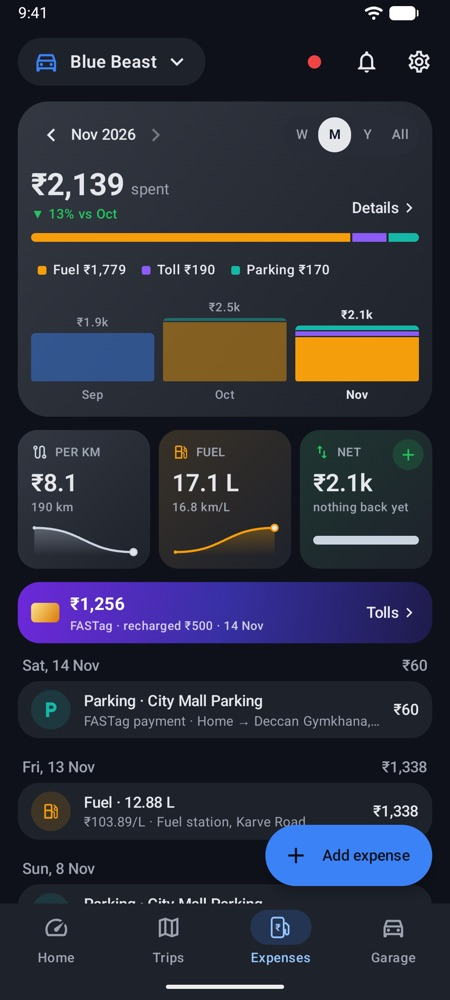
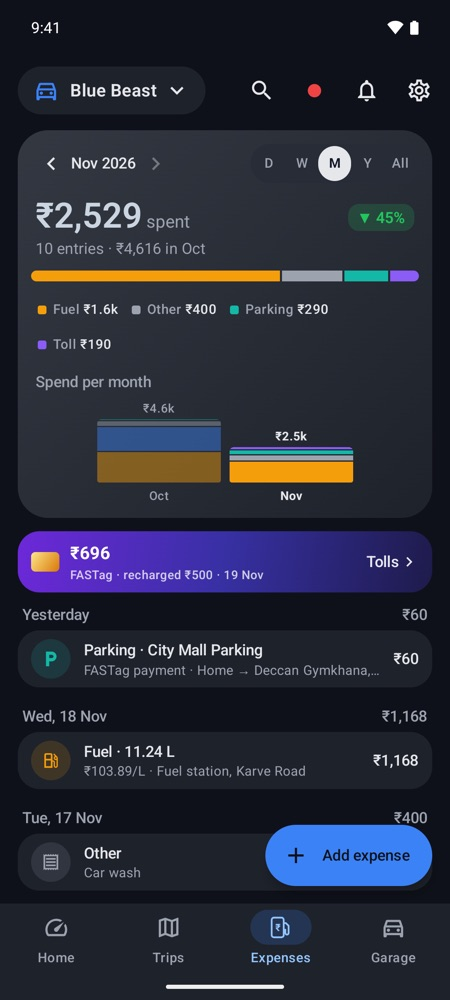
feat(site): match the simpler app (Expenses, mileage)
Mileage is now the owner's city and highway figures with nothing
learned from fill-ups, so the copy on Home, How it works, FAQ (and its
JSON-LD) and Setup says so and points to Home → Mileage. Expenses is one
card with search, so the per-km claims are gone. New demo-garage
screenshots for Home, Expenses and the Mileage page.

diff --git a/site/faq.html b/site/faq.html
@@ -25,7 +25,7 @@
 <link rel="apple-touch-icon" href="apple-touch-icon.png">
 <link rel="stylesheet" href="style.css">
 <script type="application/ld+json">
-{"@context": "https://schema.org", "@type": "FAQPage", "mainEntity": [{"@type": "Question", "name": "Where do I get AutoMate?", "acceptedAnswer": {"@type": "Answer", "text": "AutoMate is coming soon to Google Play. Updates will arrive through Play like any other app."}}, {"@type": "Question", "name": "Which phones does it work on?", "acceptedAnswer": {"@type": "Answer", "text": "Android 12 or newer, with Google Play services (for maps and trip detection). There's no iPhone version."}}, {"@type": "Question", "name": "Does it cost anything?", "acceptedAnswer": {"@type": "Answer", "text": "Your first 99 trips are free, and Expenses, fuel, FASTag and Garage are always free. After 99, new trips keep recording and are saved, but stay locked until you pick a plan: ₹999 once for life, or ₹69 a month, through Google Play. No ads and no sign-up either way. See Pricing."}}, {"@type": "Question", "name": "Do I need a tracker or other device?", "acceptedAnswer": {"@type": "Answer", "text": "No. AutoMate uses your phone and your vehicle's Bluetooth (the car stereo, hands-free kit or the scooter's own Bluetooth). Nothing to buy or fit."}}, {"@type": "Question", "name": "How does a trip start on its own?", "acceptedAnswer": {"@type": "Answer", "text": "Choose your vehicle's Bluetooth (the car stereo, hands-free kit or the scooter's own Bluetooth) in the vehicle's details. When your phone connects to it, a trip starts; when you park and switch off, it ends. See How it works."}}, {"@type": "Question", "name": "A trip didn't start or end on its own. Why?", "acceptedAnswer": {"@type": "Answer", "text": "Open Settings → Automatic trips and work through the checklist: Bluetooth on, location “Allow all the time”, battery “Unrestricted”. Some phones also stop background apps; search your phone's brand on dontkillmyapp.com. You can always start and end a trip by hand from the Trips tab."}}, {"@type": "Question", "name": "I stopped for a few minutes. Will that split my trip?", "acceptedAnswer": {"@type": "Answer", "text": "No. If you drive off again within 15 minutes from the same spot, AutoMate carries on the same trip."}}, {"@type": "Question", "name": "Does it drain the battery?", "acceptedAnswer": {"@type": "Answer", "text": "GPS runs only while a trip is recording. The rest of the time AutoMate waits for your vehicle's Bluetooth."}}, {"@type": "Question", "name": "Does it work with bikes and scooters?", "acceptedAnswer": {"@type": "Answer", "text": "Yes. Trips, fuel, expenses, mileage and garage work the same. FASTag is hidden for two-wheelers. No Bluetooth on your bike? Start and end trips by hand."}}, {"@type": "Question", "name": "How does a fill-up log itself?", "acceptedAnswer": {"@type": "Answer", "text": "With Read payment notifications on, a UPI or card payment at a fuel pump shows up as a fill-up ready to save, with the amount filled in. You add the litres or price if you like and tap Save. See How it works."}}, {"@type": "Question", "name": "Does AutoMate read my SMS?", "acceptedAnswer": {"@type": "Answer", "text": "No. It doesn't have SMS permission. It reads payment notifications only from SMS, UPI, bank and FASTag apps and Gmail, on your phone, and ignores everything else. Details in Privacy."}}, {"@type": "Question", "name": "Will it count my grocery or food payments?", "acceptedAnswer": {"@type": "Answer", "text": "No. AutoMate is for vehicle costs. Payments that aren't for the vehicle are skipped, and nothing counts as spend until you log it."}}, {"@type": "Question", "name": "How is my mileage worked out?", "acceptedAnswer": {"@type": "Answer", "text": "You enter the mileage you really get, for the city and the highway. AutoMate prices trips with it, and once you've logged a few full-tank fill-ups it fine-tunes the figure slowly. You can switch that off in Settings → Mileage."}}, {"@type": "Question", "name": "Do I need an account?", "acceptedAnswer": {"@type": "Answer", "text": "No. Open the app and add your vehicle."}}, {"@type": "Question", "name": "Where is my data?", "acceptedAnswer": {"@type": "Answer", "text": "Only on your phone. There are no AutoMate servers. Maps, addresses and some place lookups come from Google; see Privacy."}}, {"@type": "Question", "name": "How do I move to a new phone?", "acceptedAnswer": {"@type": "Answer", "text": "Settings → Your data → Transfer to another phone → Export makes one .automate file. Install AutoMate on the new phone and tap Restore from a backup."}}, {"@type": "Question", "name": "What if I lose my phone?", "acceptedAnswer": {"@type": "Answer", "text": "Your data goes with it unless you exported a backup. There's no cloud copy."}}, {"@type": "Question", "name": "How do I delete my data?", "acceptedAnswer": {"@type": "Answer", "text": "See Delete your data."}}, {"@type": "Question", "name": "Can family members share one car?", "acceptedAnswer": {"@type": "Answer", "text": "Not yet. Each phone keeps its own records; there's no syncing between phones."}}, {"@type": "Question", "name": "How do I report a bug or ask for a feature?", "acceptedAnswer": {"@type": "Answer", "text": "Write to hello@getautomate.in. In the app: Settings → Help & feature requests. A screenshot helps; leave out number plates and places you'd rather not share."}}]}
+{"@context": "https://schema.org", "@type": "FAQPage", "mainEntity": [{"@type": "Question", "name": "Where do I get AutoMate?", "acceptedAnswer": {"@type": "Answer", "text": "AutoMate is coming soon to Google Play. Updates will arrive through Play like any other app."}}, {"@type": "Question", "name": "Which phones does it work on?", "acceptedAnswer": {"@type": "Answer", "text": "Android 12 or newer, with Google Play services (for maps and trip detection). There's no iPhone version."}}, {"@type": "Question", "name": "Does it cost anything?", "acceptedAnswer": {"@type": "Answer", "text": "Your first 99 trips are free, and Expenses, fuel, FASTag and Garage are always free. After 99, new trips keep recording and are saved, but stay locked until you pick a plan: ₹999 once for life, or ₹69 a month, through Google Play. No ads and no sign-up either way. See Pricing."}}, {"@type": "Question", "name": "Do I need a tracker or other device?", "acceptedAnswer": {"@type": "Answer", "text": "No. AutoMate uses your phone and your vehicle's Bluetooth (the car stereo, hands-free kit or the scooter's own Bluetooth). Nothing to buy or fit."}}, {"@type": "Question", "name": "How does a trip start on its own?", "acceptedAnswer": {"@type": "Answer", "text": "Choose your vehicle's Bluetooth (the car stereo, hands-free kit or the scooter's own Bluetooth) in the vehicle's details. When your phone connects to it, a trip starts; when you park and switch off, it ends. See How it works."}}, {"@type": "Question", "name": "A trip didn't start or end on its own. Why?", "acceptedAnswer": {"@type": "Answer", "text": "Open Settings → Automatic trips and work through the checklist: Bluetooth on, location “Allow all the time”, battery “Unrestricted”. Some phones also stop background apps; search your phone's brand on dontkillmyapp.com. You can always start and end a trip by hand from the Trips tab."}}, {"@type": "Question", "name": "I stopped for a few minutes. Will that split my trip?", "acceptedAnswer": {"@type": "Answer", "text": "No. If you drive off again within 15 minutes from the same spot, AutoMate carries on the same trip."}}, {"@type": "Question", "name": "Does it drain the battery?", "acceptedAnswer": {"@type": "Answer", "text": "GPS runs only while a trip is recording. The rest of the time AutoMate waits for your vehicle's Bluetooth."}}, {"@type": "Question", "name": "Does it work with bikes and scooters?", "acceptedAnswer": {"@type": "Answer", "text": "Yes. Trips, fuel, expenses, mileage and garage work the same. FASTag is hidden for two-wheelers. No Bluetooth on your bike? Start and end trips by hand."}}, {"@type": "Question", "name": "How does a fill-up log itself?", "acceptedAnswer": {"@type": "Answer", "text": "With Read payment notifications on, a UPI or card payment at a fuel pump shows up as a fill-up ready to save, with the amount filled in. You add the litres or price if you like and tap Save. See How it works."}}, {"@type": "Question", "name": "Does AutoMate read my SMS?", "acceptedAnswer": {"@type": "Answer", "text": "No. It doesn't have SMS permission. It reads payment notifications only from SMS, UPI, bank and FASTag apps and Gmail, on your phone, and ignores everything else. Details in Privacy."}}, {"@type": "Question", "name": "Will it count my grocery or food payments?", "acceptedAnswer": {"@type": "Answer", "text": "No. AutoMate is for vehicle costs. Payments that aren't for the vehicle are skipped, and nothing counts as spend until you log it."}}, {"@type": "Question", "name": "How is my mileage worked out?", "acceptedAnswer": {"@type": "Answer", "text": "You enter the mileage you really get, for the city and the highway. AutoMate splits every trip into city and highway driving and works out its fuel from your two figures; Home → Mileage shows km/L over time from that mix. Fill-ups don't change your figures; edit them any time in Settings → Mileage."}}, {"@type": "Question", "name": "Do I need an account?", "acceptedAnswer": {"@type": "Answer", "text": "No. Open the app and add your vehicle."}}, {"@type": "Question", "name": "Where is my data?", "acceptedAnswer": {"@type": "Answer", "text": "Only on your phone. There are no AutoMate servers. Maps, addresses and some place lookups come from Google; see Privacy."}}, {"@type": "Question", "name": "How do I move to a new phone?", "acceptedAnswer": {"@type": "Answer", "text": "Settings → Your data → Transfer to another phone → Export makes one .automate file. Install AutoMate on the new phone and tap Restore from a backup."}}, {"@type": "Question", "name": "What if I lose my phone?", "acceptedAnswer": {"@type": "Answer", "text": "Your data goes with it unless you exported a backup. There's no cloud copy."}}, {"@type": "Question", "name": "How do I delete my data?", "acceptedAnswer": {"@type": "Answer", "text": "See Delete your data."}}, {"@type": "Question", "name": "Can family members share one car?", "acceptedAnswer": {"@type": "Answer", "text": "Not yet. Each phone keeps its own records; there's no syncing between phones."}}, {"@type": "Question", "name": "How do I report a bug or ask for a feature?", "acceptedAnswer": {"@type": "Answer", "text": "Write to hello@getautomate.in. In the app: Settings → Help & feature requests. A screenshot helps; leave out number plates and places you'd rather not share."}}]}
 </script>
 </head>
 <body>
@@ -58,7 +58,7 @@
 <details><summary>How does a fill-up log itself?</summary><p>With <b>Read payment notifications</b> on, a UPI or card payment at a fuel pump shows up as a fill-up ready to save, with the amount filled in. You add the litres or price if you like and tap Save. See <a href="how-it-works.html#fuel">How it works</a>.</p></details>
 <details><summary>Does AutoMate read my SMS?</summary><p>No. It doesn't have SMS permission. It reads payment notifications only from SMS, UPI, bank and FASTag apps and Gmail, on your phone, and ignores everything else. Details in <a href="privacy.html#notifications">Privacy</a>.</p></details>
 <details><summary>Will it count my grocery or food payments?</summary><p>No. AutoMate is for vehicle costs. Payments that aren't for the vehicle are skipped, and nothing counts as spend until you log it.</p></details>
-<details><summary>How is my mileage worked out?</summary><p>You enter the mileage you really get, for the city and the highway. AutoMate prices trips with it, and once you've logged a few full-tank fill-ups it fine-tunes the figure slowly. You can switch that off in Settings → Mileage.</p></details>
+<details><summary>How is my mileage worked out?</summary><p>You enter the mileage you really get, for the city and the highway. AutoMate splits every trip into city and highway driving and works out its fuel from your two figures; Home → Mileage shows km/L over time from that mix. Fill-ups don't change your figures; edit them any time in Settings → Mileage.</p></details>
 
 <h2>Your data</h2>
 <details><summary>Do I need an account?</summary><p>No. Open the app and add your vehicle.</p></details>

diff --git a/site/index.html b/site/index.html
@@ -101,7 +101,7 @@
     <p class="fine">First 99 trips free · Android 12 or newer · no account</p>
   </div>
   <div class="hero-phones">
-    <figure class="phone"><div class="scr"><picture><source srcset="img/home.webp" type="image/webp"><img src="img/home.jpg" alt="Home screen: 7.2 km this week, ₹2,139 spent in November, 15.9 km/L, FASTag ₹1,256 and the next service" width="450" height="1000"></picture></div></figure>
+    <figure class="phone"><div class="scr"><picture><source srcset="img/home.webp" type="image/webp"><img src="img/home.jpg" alt="Home screen: 27.4 km this week, ₹2,529 spent in November, 16.1 km/L, FASTag ₹696 and the next service" width="450" height="1000"></picture></div></figure>
     <figure class="phone"><div class="scr"><picture><source srcset="img/trip.webp" type="image/webp"><img src="img/trip.jpg" alt="Trip details: a 60.5 km drive from Lonavala to Home on the map, with speed, mileage and cost" width="450" height="1000"></picture></div></figure>
     <div class="notif" aria-hidden="true">
       <img src="img/logo.svg" alt="" width="36" height="36">
@@ -143,14 +143,14 @@
     <p class="sub">Pay at the pump by UPI or card. AutoMate spots the payment notification, fills in the fill-up for you and you tap Save.</p>
     <ul class="checks">
       <li>Reads payment notifications from your SMS, UPI and bank apps, on the phone only</li>
-      <li>Your mileage, fine-tuned by your full-tank fill-ups</li>
       <li>Every trip priced at your own city and highway km/L</li>
-      <li>Cost per km and price per litre, month by month</li>
+      <li>Mileage over time from how much city and highway you drive</li>
+      <li>Search every fill-up and expense, all the way back</li>
     </ul>
   </div>
   <div class="pair">
-    <figure class="phone"><div class="scr"><picture><source srcset="img/expenses.webp" type="image/webp"><img src="img/expenses.jpg" alt="Expenses tab: ₹2,139 spent in November, mostly fuel, with 17.1 L at 16.8 km/L" width="450" height="1000" loading="lazy"></picture></div></figure>
-    <figure class="phone"><div class="scr"><picture><source srcset="img/mileage.webp" type="image/webp"><img src="img/mileage.jpg" alt="Mileage page: 16.8 km/L estimated from 22 trips, ₹6.18 per km" width="450" height="1000" loading="lazy"></picture></div></figure>
+    <figure class="phone"><div class="scr"><picture><source srcset="img/expenses.webp" type="image/webp"><img src="img/expenses.jpg" alt="Expenses tab: ₹2,529 spent in November, 45% less than October, mostly fuel, then each payment by day" width="450" height="1000" loading="lazy"></picture></div></figure>
+    <figure class="phone"><div class="scr"><picture><source srcset="img/mileage.webp" type="image/webp"><img src="img/mileage.jpg" alt="Mileage page: 16.5 km/L in November, a line between your city and highway figures, 41% city driving" width="450" height="1000" loading="lazy"></picture></div></figure>
   </div>
 </section>
 
@@ -159,9 +159,9 @@
   <p class="sub">One app for what your car, bike or scooter needs and costs.</p>
   <div class="grid">
     <div class="card wash" style="--tone:var(--amber)"><span class="badge" style="--tone:var(--amber)"><svg class="ico" aria-hidden="true"><use href="img/icons.svg#build"/></svg></span><h3>Garage and reminders</h3><p>Service history with bills and job cards, and reminders by date or kilometres.</p></div>
-    <div class="card wash" style="--tone:var(--soft)"><span class="badge" style="--tone:var(--soft)"><svg class="ico" aria-hidden="true"><use href="img/icons.svg#wallet"/></svg></span><h3>Expenses</h3><p>Fuel, tolls, parking, fines and repairs. What each vehicle costs per month and per km.</p></div>
+    <div class="card wash" style="--tone:var(--soft)"><span class="badge" style="--tone:var(--soft)"><svg class="ico" aria-hidden="true"><use href="img/icons.svg#wallet"/></svg></span><h3>Expenses</h3><p>Fuel, tolls, parking, fines and repairs: where each vehicle's money went, by day, week, month or year, with search.</p></div>
     <div class="card wash" style="--tone:var(--violet)"><span class="badge" style="--tone:var(--violet)"><svg class="ico" aria-hidden="true"><use href="img/icons.svg#toll"/></svg></span><h3>FASTag tolls</h3><p>Tolls logged from your payment alerts and matched to the trip, with a low-balance heads-up. Cars only.</p></div>
-    <div class="card wash" style="--tone:var(--green)"><span class="badge" style="--tone:var(--green)"><svg class="ico" aria-hidden="true"><use href="img/icons.svg#speed"/></svg></span><h3>Mileage pages</h3><p>km/L for each vehicle by week, month and year, for the city and the highway.</p></div>
+    <div class="card wash" style="--tone:var(--green)"><span class="badge" style="--tone:var(--green)"><svg class="ico" aria-hidden="true"><use href="img/icons.svg#speed"/></svg></span><h3>Mileage</h3><p>km/L by week, month and year from each trip's city and highway kilometres and your own two figures.</p></div>
     <div class="card wash" style="--tone:var(--blue)"><span class="badge" style="--tone:var(--blue)"><svg class="ico" aria-hidden="true"><use href="img/icons.svg#calendar-month"/></svg></span><h3>Stats over time</h3><p>Distance, time, spend and trends by week, month, year or all time.</p></div>
     <div class="card wash" style="--tone:var(--blue)"><span class="badge" style="--tone:var(--blue)"><svg class="ico" aria-hidden="true"><use href="img/icons.svg#swap-horiz"/></svg></span><h3>Move phones</h3><p>One file, password-protected if you like, carries your vehicles, trips, bills and photos to a new phone.</p></div>
   </div>
@@ -173,7 +173,7 @@
   <div class="strip-wrap">
     <div class="arrows" hidden><button type="button" data-dir="-1" aria-label="Previous screenshots">‹</button><button type="button" data-dir="1" aria-label="Next screenshots">›</button></div>
     <ul class="strip">
-      <li><figure class="phone"><div class="scr"><picture><source srcset="img/home.webp" type="image/webp"><img src="img/home.jpg" alt="Home: km this week, monthly spend, mileage, FASTag balance and the next service" width="450" height="1000" loading="lazy"></picture></div><figcaption>Home</figcaption></figure></li><li><figure class="phone"><div class="scr"><picture><source srcset="img/trips.webp" type="image/webp"><img src="img/trips.jpg" alt="Trips tab: 190 km this month across 22 drives, with the list of drives" width="450" height="1000" loading="lazy"></picture></div><figcaption>Trips</figcaption></figure></li><li><figure class="phone"><div class="scr"><picture><source srcset="img/trip.webp" type="image/webp"><img src="img/trip.jpg" alt="Trip details: route from Lonavala to Home on the map, 60.5 km, ₹476" width="450" height="1000" loading="lazy"></picture></div><figcaption>Trip details</figcaption></figure></li><li><figure class="phone"><div class="scr"><picture><source srcset="img/expenses.webp" type="image/webp"><img src="img/expenses.jpg" alt="Expenses tab: ₹2,139 spent in November, split into fuel, tolls and parking" width="450" height="1000" loading="lazy"></picture></div><figcaption>Expenses</figcaption></figure></li><li><figure class="phone"><div class="scr"><picture><source srcset="img/fastag.webp" type="image/webp"><img src="img/fastag.jpg" alt="FASTag page: balance card, tolls and parking by month" width="450" height="1000" loading="lazy"></picture></div><figcaption>FASTag</figcaption></figure></li><li><figure class="phone"><div class="scr"><picture><source srcset="img/garage.webp" type="image/webp"><img src="img/garage.jpg" alt="Garage: next service due in 12 days, and the service history" width="450" height="1000" loading="lazy"></picture></div><figcaption>Garage</figcaption></figure></li><li><figure class="phone"><div class="scr"><picture><source srcset="img/mileage.webp" type="image/webp"><img src="img/mileage.jpg" alt="Mileage page: 16.8 km/L estimated, priced at your city and highway figures" width="450" height="1000" loading="lazy"></picture></div><figcaption>Mileage</figcaption></figure></li><li><figure class="phone"><div class="scr"><picture><source srcset="img/to-review.webp" type="image/webp"><img src="img/to-review.jpg" alt="To review: a ₹1,500 fuel payment waiting, with Log as fuel" width="450" height="1000" loading="lazy"></picture></div><figcaption>Payments to review</figcaption></figure></li><li><figure class="phone"><div class="scr"><picture><source srcset="img/settings.webp" type="image/webp"><img src="img/settings.jpg" alt="Settings: vehicles, automatic trips, places, mileage, payment notifications" width="450" height="1000" loading="lazy"></picture></div><figcaption>Settings</figcaption></figure></li>
+      <li><figure class="phone"><div class="scr"><picture><source srcset="img/home.webp" type="image/webp"><img src="img/home.jpg" alt="Home: km this week, monthly spend, mileage, FASTag balance and the next service" width="450" height="1000" loading="lazy"></picture></div><figcaption>Home</figcaption></figure></li><li><figure class="phone"><div class="scr"><picture><source srcset="img/trips.webp" type="image/webp"><img src="img/trips.jpg" alt="Trips tab: 190 km this month across 22 drives, with the list of drives" width="450" height="1000" loading="lazy"></picture></div><figcaption>Trips</figcaption></figure></li><li><figure class="phone"><div class="scr"><picture><source srcset="img/trip.webp" type="image/webp"><img src="img/trip.jpg" alt="Trip details: route from Lonavala to Home on the map, 60.5 km, ₹476" width="450" height="1000" loading="lazy"></picture></div><figcaption>Trip details</figcaption></figure></li><li><figure class="phone"><div class="scr"><picture><source srcset="img/expenses.webp" type="image/webp"><img src="img/expenses.jpg" alt="Expenses tab: ₹2,529 spent in November, split into fuel, parking and tolls" width="450" height="1000" loading="lazy"></picture></div><figcaption>Expenses</figcaption></figure></li><li><figure class="phone"><div class="scr"><picture><source srcset="img/fastag.webp" type="image/webp"><img src="img/fastag.jpg" alt="FASTag page: balance card, tolls and parking by month" width="450" height="1000" loading="lazy"></picture></div><figcaption>FASTag</figcaption></figure></li><li><figure class="phone"><div class="scr"><picture><source srcset="img/garage.webp" type="image/webp"><img src="img/garage.jpg" alt="Garage: next service due in 12 days, and the service history" width="450" height="1000" loading="lazy"></picture></div><figcaption>Garage</figcaption></figure></li><li><figure class="phone"><div class="scr"><picture><source srcset="img/mileage.webp" type="image/webp"><img src="img/mileage.jpg" alt="Mileage page: km/L over six months between your city and highway figures" width="450" height="1000" loading="lazy"></picture></div><figcaption>Mileage</figcaption></figure></li><li><figure class="phone"><div class="scr"><picture><source srcset="img/to-review.webp" type="image/webp"><img src="img/to-review.jpg" alt="To review: a ₹1,500 fuel payment waiting, with Log as fuel" width="450" height="1000" loading="lazy"></picture></div><figcaption>Payments to review</figcaption></figure></li><li><figure class="phone"><div class="scr"><picture><source srcset="img/settings.webp" type="image/webp"><img src="img/settings.jpg" alt="Settings: vehicles, automatic trips, places, mileage, payment notifications" width="450" height="1000" loading="lazy"></picture></div><figcaption>Settings</figcaption></figure></li>
     </ul>
   </div>
 </section>

diff --git a/site/how-it-works.html b/site/how-it-works.html
@@ -4,11 +4,11 @@
 <meta charset="utf-8">
 <meta name="viewport" content="width=device-width, initial-scale=1">
 <title>How it works · AutoMate</title>
-<meta name="description" content="How AutoMate records trips over your vehicle's Bluetooth, logs fill-ups from payment notifications, learns your mileage and keeps your data on your phone.">
+<meta name="description" content="How AutoMate records trips over your vehicle's Bluetooth, logs fill-ups from payment notifications, works out mileage from your own figures and keeps your data on your phone.">
 <meta name="theme-color" content="#0F111A">
 <meta name="color-scheme" content="dark">
 <meta property="og:title" content="How it works · AutoMate">
-<meta property="og:description" content="How AutoMate records trips over your vehicle's Bluetooth, logs fill-ups from payment notifications, learns your mileage and keeps your data on your phone.">
+<meta property="og:description" content="How AutoMate records trips over your vehicle's Bluetooth, logs fill-ups from payment notifications, works out mileage from your own figures and keeps your data on your phone.">
 <meta property="og:type" content="website">
 <link rel="canonical" href="https://getautomate.in/how-it-works.html">
 <meta property="og:url" content="https://getautomate.in/how-it-works.html">
@@ -64,7 +64,7 @@
 <div class="shot"><figure class="phone"><div class="scr"><picture><source srcset="img/payment-notification.webp" type="image/webp"><img src="img/payment-notification.jpg" alt="A notification: ₹1,500 at Fictional Fuels, with Log as fuel" width="450" height="1000" loading="lazy"></picture></div></figure><figure class="phone"><div class="scr"><picture><source srcset="img/fuel-form.webp" type="image/webp"><img src="img/fuel-form.jpg" alt="The fill-up form, filled in from the payment" width="450" height="1000" loading="lazy"></picture></div></figure></div>
 
 <h2 id="mileage"><span class="badge" style="--tone:var(--green)"><svg class="ico" aria-hidden="true"><use href="img/icons.svg#speed"/></svg></span>Mileage you can trust</h2>
-<p>You enter the mileage you really get, for the city and the highway, not the brochure figure. AutoMate prices each trip from its own city and highway kilometres. After three fill-ups and a full tank agree, it starts fine-tuning your figure, at most 5% at a time, and shows every change. Switch it off any time.</p>
+<p>You enter the mileage you really get, for the city and the highway, not the brochure figure. AutoMate splits each trip into city and highway driving from its GPS speeds and prices it at your two figures. Home → Mileage shows km/L over time from that mix, and its ⓘ works the number out with that period's own kilometres. Fill-ups never change your figures; you change them in Settings → Mileage.</p>
 
 <h2 id="fastag"><span class="badge" style="--tone:var(--violet)"><svg class="ico" aria-hidden="true"><use href="img/icons.svg#toll"/></svg></span>FASTag</h2>
 <p>Toll and FASTag parking alerts are logged on their own, with the plaza and balance, and matched to the trip they happened on. When the balance runs low you get a heads-up. FASTag is for cars, so it's hidden for bikes and scooters.</p>

diff --git a/site/setup.html b/site/setup.html
@@ -65,7 +65,7 @@
 <p>In Settings, switch on <b>Read payment notifications</b>. AutoMate explains what it reads, then opens Android's <i>Notification access</i> page: turn on <b>AutoMate</b>. From then on FASTag tolls are logged as they happen, and fuel and other vehicle payments wait in <i>To review</i> for one tap. Choose which payments notify you under Settings → Notifications.</p>
 
 <h2 id="mileage">5. Your mileage</h2>
-<p>Settings → <b>Mileage</b>: enter the km/L you really get in the city (and on the highway, if it's different). Trips are priced with it; full-tank fill-ups fine-tune it over time.</p>
+<p>Settings → <b>Mileage</b>: enter the km/L you really get in the city (and on the highway, if it's different). Every trip is priced with it, and Home → Mileage shows km/L over time from your trips.</p>
 
 <h2 id="reminders">6. Service reminders</h2>
 <p>In the Garage tab, log your last service and set when the next is due, by date, kilometres or both. Do the same for PUC, insurance and tyres. You'll get a notification before each is due.</p>
